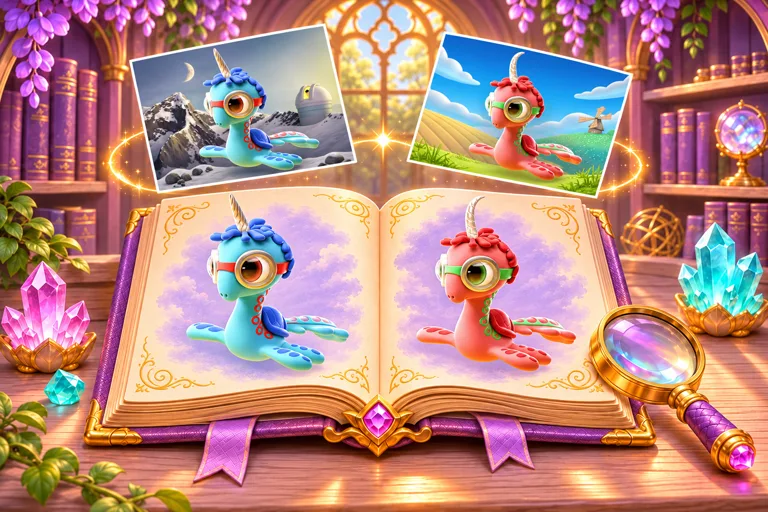
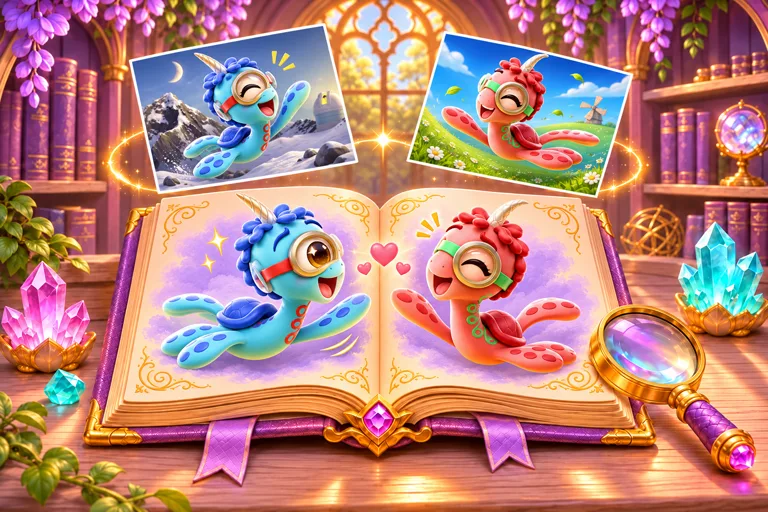
Give monster card illustrations expressive poses and emotion

diff --git a/apps/yunipals-home-web/src/pages/boosters/MonsterActionCards.tsx b/apps/yunipals-home-web/src/pages/boosters/MonsterActionCards.tsx
@@ -23,7 +23,7 @@ export function MonsterActionCards({
       action: "Explore adventures",
       href: `/adventures/cards/${tokenId}`,
       image: "adventures",
-      alt: "Yunidragon discovers glowing serums in an enchanted forest."
+      alt: "A grinning Yunidragon reaches for magic rising from glowing serums."
     },
     {
       visible: canGrade,
@@ -32,7 +32,7 @@ export function MonsterActionCards({
       action: "Explore grading",
       href: `/grading?card=${tokenId}`,
       image: "grading",
-      alt: "Purple Yunifairy hovers beside the crystal-crowned rainbow portal."
+      alt: "A delighted purple Yunifairy flies toward the rainbow portal."
     },
     {
       visible: true,
@@ -41,7 +41,7 @@ export function MonsterActionCards({
       action: "View card history",
       href: `/grading/cards/${tokenId}`,
       image: "history",
-      alt: "An enchanted scrapbook displays blue and red Yuniturtle artwork."
+      alt: "A scrapbook captures blue and red Yuniturtles laughing and waving."
     }
   ].filter((card) => card.visible);
 
